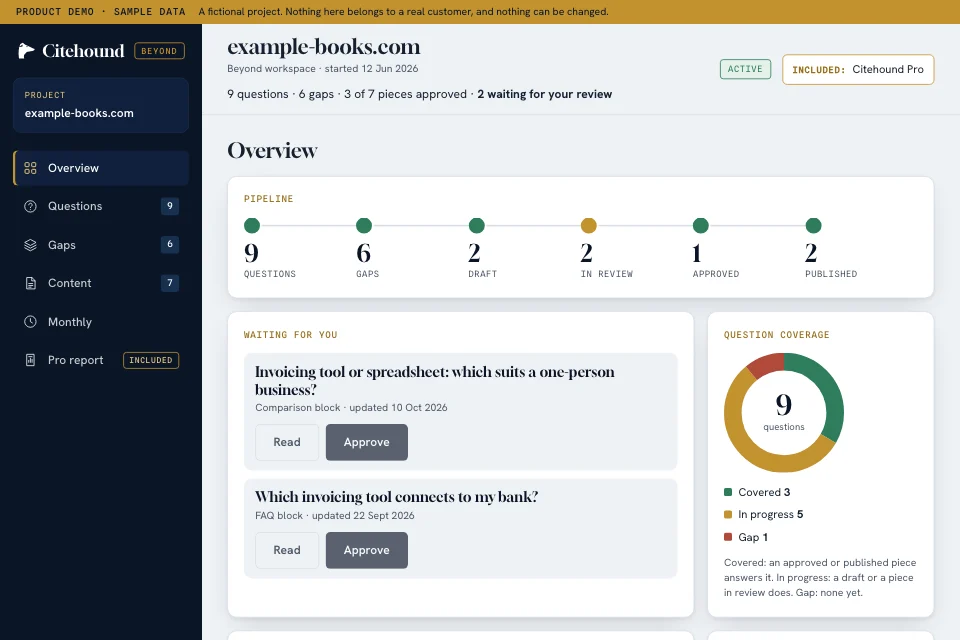
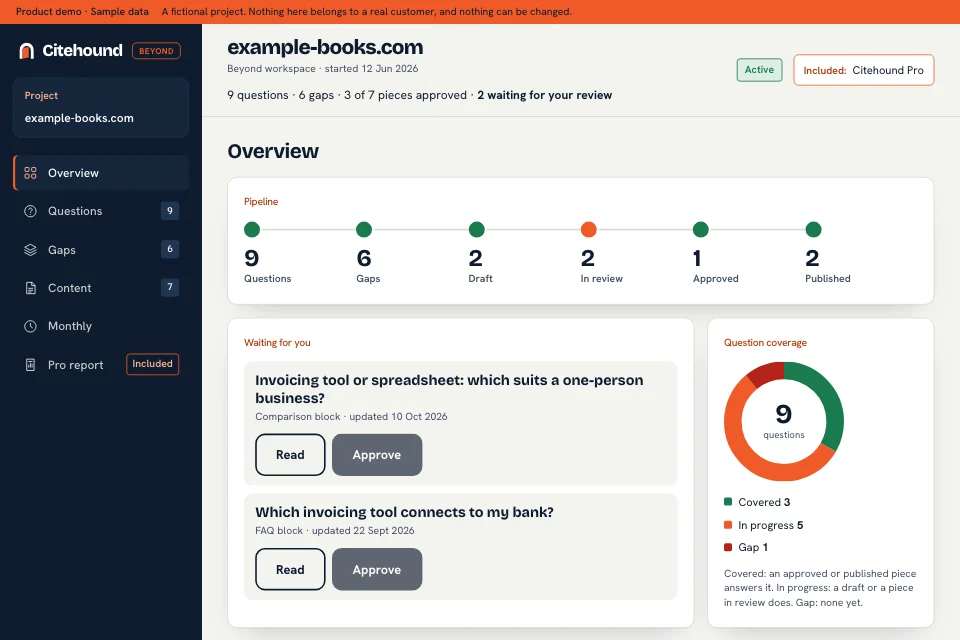
Redesign: motion (CSS only, reduced-motion safe), product tour screenshots from the redesigned pages, CLAUDE.md design system v4

diff --git a/styles.css b/styles.css
@@ -5684,3 +5684,44 @@ input.field::placeholder { color: var(--ink-faint); }
 .bot-chip--partial::before { background: #E0A100; }
 .bot-chip--block { background: var(--risk-tint); color: var(--risk); }
 
+
+/* ---------- motion (23 Oct 2026) ----------
+   Restraint: opacity, transform and one SVG stroke draw. Everything is inside no-preference, so reduced motion gets the static page.
+   Scroll reveals use CSS scroll-driven animation (no script, nothing stays hidden where it is unsupported). */
+@media (prefers-reduced-motion: no-preference) {
+  /* hero report: the arc draws, the ten doors arrive in turn */
+  .rv__fill { animation: rv-draw 1100ms cubic-bezier(0.22, 1, 0.36, 1) 200ms both; }
+  @keyframes rv-draw { from { stroke-dasharray: 0 100; } to { stroke-dasharray: 87 100; } }
+  .rv__score { animation: rv-rise 700ms cubic-bezier(0.22, 1, 0.36, 1) 350ms both; }
+  .rv__pw { transform-origin: left center; animation: rv-grow 800ms cubic-bezier(0.22, 1, 0.36, 1) 450ms both; }
+  @keyframes rv-grow { from { transform: scaleX(0); } to { transform: scaleX(1); } }
+  .rv__row .door { animation: rv-rise 520ms cubic-bezier(0.22, 1, 0.36, 1) both; }
+  .rv__row .door:nth-child(1) { animation-delay: 600ms; } .rv__row .door:nth-child(2) { animation-delay: 660ms; }
+  .rv__row .door:nth-child(3) { animation-delay: 720ms; } .rv__row .door:nth-child(4) { animation-delay: 780ms; }
+  .rv__row .door:nth-child(5) { animation-delay: 840ms; } .rv__row .door:nth-child(6) { animation-delay: 900ms; }
+  .rv__row .door:nth-child(7) { animation-delay: 960ms; } .rv__row .door:nth-child(8) { animation-delay: 1020ms; }
+  .rv__row .door:nth-child(9) { animation-delay: 1080ms; } .rv__row .door:nth-child(10) { animation-delay: 1140ms; }
+  @keyframes rv-rise { from { opacity: 0; transform: translateY(12px); } to { opacity: 1; transform: none; } }
+
+  /* the pricing hero: the four arches rise */
+  .pp-hero__arch { transform-origin: bottom center; animation: arch-up 700ms cubic-bezier(0.22, 1, 0.36, 1) both; }
+  .pp-hero__arch--2 { animation-delay: 90ms; } .pp-hero__arch--3 { animation-delay: 180ms; } .pp-hero__arch--4 { animation-delay: 270ms; }
+  @keyframes arch-up { from { opacity: 0; transform: translateY(40px); } to { opacity: 1; transform: none; } }
+
+  /* feedback: press, and the door in the logo opens a little on hover */
+  .btn:active { transform: translateY(1px); }
+  .logo__icon path:last-child, .sf-logo__icon path:last-child { transform-box: fill-box; transform-origin: left center; transition: transform 220ms cubic-bezier(0.22, 1, 0.36, 1); }
+  .logo:hover .logo__icon path:last-child, .sf-logo:hover .sf-logo__icon path:last-child { transform: scaleX(0.55); }
+
+  /* scroll reveals, where the browser supports them */
+  @supports (animation-timeline: view()) {
+    .section-head, .capability-card, .aud__item, .ints__list li, .research-strip__list li, .ac-faq details, .pp-which__row, .home-close__panel {
+      animation: reveal linear both; animation-timeline: view(); animation-range: entry 0% entry 45%;
+    }
+    .capability-card:nth-child(2), .aud__item:nth-child(2) { animation-range: entry 6% entry 51%; }
+    .capability-card:nth-child(3), .aud__item:nth-child(3) { animation-range: entry 12% entry 57%; }
+    .capability-card:nth-child(4) { animation-range: entry 18% entry 63%; }
+    @keyframes reveal { from { opacity: 0; transform: translateY(24px); } to { opacity: 1; transform: none; } }
+  }
+}
+

diff --git a/scripts/capture-tour.js b/scripts/capture-tour.js
@@ -39,7 +39,7 @@ async function main() {
   let pw;
   try { pw = require('playwright'); } catch (e) { console.error('playwright is not installed. Set NODE_PATH to a node_modules folder that has it (see the header of this file).'); process.exit(1); }
   fs.mkdirSync(OUT, { recursive: true });
-  const browser = await pw.chromium.launch();
+  const browser = await pw.chromium.launch(process.env.CHROME_PATH ? { executablePath: process.env.CHROME_PATH } : {});
   for (const s of SHOTS) {
     if (ONLY && ONLY.indexOf(s.file) === -1) continue;
     for (const [suffix, scale] of s.sizes) {

diff --git a/CLAUDE.md b/CLAUDE.md
@@ -261,7 +261,18 @@ When editing `index.html`, bump the `?v=` query on the `app.js`,
 `scanner.js` and `styles.css` references — stale caches have broken
 this project twice.
 
-## Design system — "Confident Editorial"
+## Design system v4: "The Doorway" (23 Oct 2026, the owner's redesign; it replaces v3 wherever they differ)
+
+Read `docs/redesign/BRIEF.md` and `docs/redesign/PROGRESS.md`. The motif is the arch, a doorway: robots.txt is the door each AI crawler stands at (open, limited, blocked).
+- **Tokens** are in `:root` of `styles.css` (v3 names, new values): paper `--bg` #F4F4F0, ink `--navy-950` #0E1B2C, white panels, one accent `--gold` #F05A28 (door orange: flat fields and primary buttons with ink text; text on light uses `--gold-deep` #B23A10; on ink use `--gold-soft`). Status colours (green, amber `#E0A100`, red) are for status only.
+- **Type:** Bricolage Grotesque (display, 700 to 800, OFL, self-hosted in `assets/fonts`, `fonts.css`), Hanken Grotesk (text), Spline Sans Mono (code and data only). Gloock is kept in `fonts.css` only for encrypted private reports made before the redesign. No labels in tiny uppercase mono: kickers are sentence case with an arch bullet.
+- **Where the CSS lives:** the v3 rules, then a block starting `/* ===== v4:START ===== */` that restyles components and holds the new ones (hero report preview `.rv`, doors `.door`, arch cards, page banner arches, pricing arches, motion). Edit the v4 block for new work; do not add a second stylesheet.
+- **The mark** is an arch with a door ajar (an inline SVG in every header, footer and lockup; `assets/brand/*`). The wordmark files are outlines of Bricolage Grotesque 800. Share images come from `scripts/capture-og.js` (local fonts, no network; `?v=3`).
+- **The homepage hero preview** is static markup from a real, dated scan of getcitehound.com (score 87; 27/40, 20/20, 40/40; ten crawlers limited, none blocked). Re-date it and re-read the figures when it is touched; it never shows an invented number.
+- **Motion** is opacity and transform (plus one SVG stroke draw), CSS only, inside `prefers-reduced-motion: no-preference`; scroll reveals use `animation-timeline: view()` where supported (nothing stays hidden where it is not).
+- Constraints that stay: no gradients, one shadow token, no third-party request, zero cookies, the CSP in `vercel.json`, WCAG AA contrast, 390 px with no horizontal scroll. The v3 "never" list below is superseded for navy bands (the homepage now has several ink bands and one orange closing field) and for mono uppercase labels; its other rules (sticky header, scan reveal, the two motion exceptions) still hold.
+
+## Design system v3 "Confident Editorial" (superseded by v4 above where they differ)
 
 Surface rhythm creates hierarchy. Never a single-background page.
 

diff --git a/docs/redesign/PROGRESS.md b/docs/redesign/PROGRESS.md
@@ -6,10 +6,10 @@ Baseline (before): gates 84/84. Self-scan of getcitehound.com: see BASELINE belo
 
 ## Todo
 - [x] 0 Audit, before screenshots (docs/redesign/before, reduced size; originals not kept), BRIEF.md
-- [ ] 1 Design system
-- [ ] 2 Homepage and /pricing
-- [ ] 3 Other public pages
-- [ ] 4 Motion
+- [x] 1 Design system
+- [x] 2 Homepage and /pricing
+- [x] 3 Other public pages (inherit v4; page banners; tour screenshots re-captured from the live pages)
+- [x] 4 Motion (CSS only; hero arc and doors, pricing arches, scroll reveals, press feedback, logo door)
 - [ ] 5 Final QA, after screenshots
 
 ## In progress
@@ -21,6 +21,7 @@ Baseline (before): gates 84/84. Self-scan of getcitehound.com: see BASELINE belo
 - Safety: disk 4.0 GB free, 84/84 gates, tag pre-redesign pushed.
 
 ## Decisions
+- Motion audit (design-motion-principles, marketing page weighting: Jakub primary, Emil for nav and forms): nothing animates that is used a hundred times a day; no hover lift or scale; all moves are 520 to 1100 ms entrances once per page view or scroll reveals; reduced motion gets the static page; scroll reveals use animation-timeline so nothing is hidden when unsupported. Checked in a browser that centred elements reach opacity 1.
 - scripts/capture-og.js rewritten: no Google Fonts (local woff2 via file URLs), new palette and arch. The share images are versioned ?v=3 on every page (lib/page-shell.js too); test-contrast-scope expects v=3.
 - Baseline self-scan of getcitehound.com: 87/100 (27/40, 20/20, 40/40), 10 crawlers all "Limited" (Disallow /admin/). Must not drop.
 - Strategy: v3 token names kept and re-pointed (palette, fonts, radius); `styles.css` ends with a marked v4 block ("v4:START") that restyles components. The 96 tiny uppercase mono labels in the v3 rules were rewritten in place (sentence case, body font, 13px minimum).
